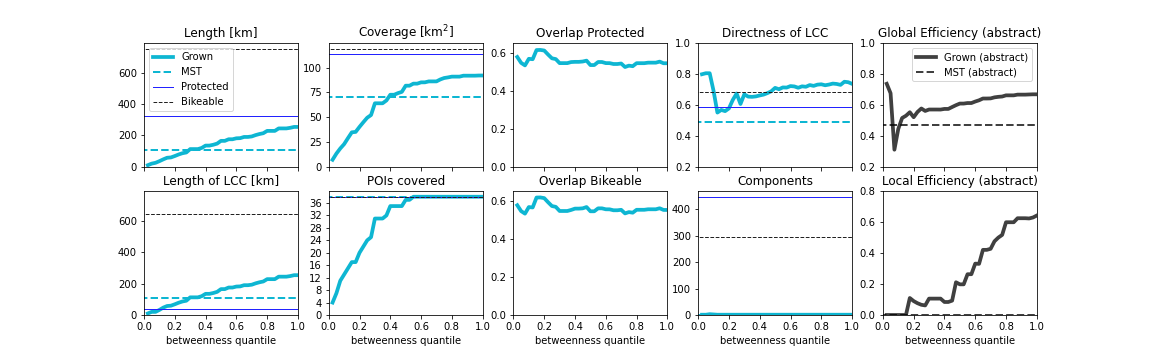
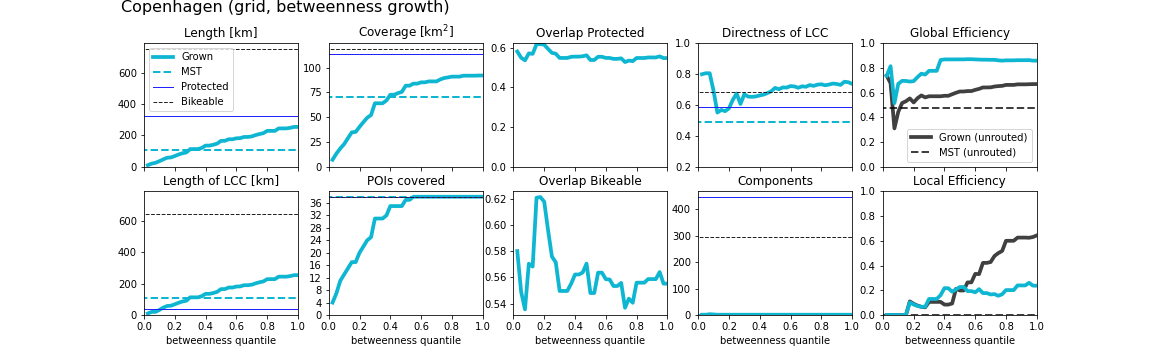
added all missing info to efficiency analysis plots

diff --git a/parameters/parameters.py b/parameters/parameters.py
@@ -1,7 +1,7 @@
 # PARAMETERS
 # These are values to loop through for different runs
-poi_source = "grid" # railwaystation, grid
-prune_measure = "closeness" # betweenness, closeness, random
+poi_source = "railwaystation" # railwaystation, grid
+prune_measure = "betweenness" # betweenness, closeness, random
 
 
 
@@ -45,9 +45,9 @@ plotparam = {"bbox": (1280,1280),
 
 plotparam_analysis = {
 			"bikegrown": {"linewidth": 3.75, "color": '#0eb6d2', "linestyle": "solid", "label": "Grown"},
-			"bikegrown_abstract": {"linewidth": 3.75, "color": '#000000', "linestyle": "solid", "label": "Grown (abstract)", "alpha": 0.75},
+			"bikegrown_abstract": {"linewidth": 3.75, "color": '#000000', "linestyle": "solid", "label": "Grown (unrouted)", "alpha": 0.75},
 			"mst": {"linewidth": 2, "color": '#0eb6d2', "linestyle": "dashed", "label": "MST"},
-			"mst_abstract": {"linewidth": 2, "color": '#000000', "linestyle": "dashed", "label": "MST (abstract)", "alpha": 0.75},
+			"mst_abstract": {"linewidth": 2, "color": '#000000', "linestyle": "dashed", "label": "MST (unrouted)", "alpha": 0.75},
 			"biketrack": {"linewidth": 1, "color": '#2222ff', "linestyle": "solid", "label": "Protected"},
 			"bikeable": {"linewidth": 1, "color": '#222222', "linestyle": "dashed", "label": "Bikeable"}
 			}
